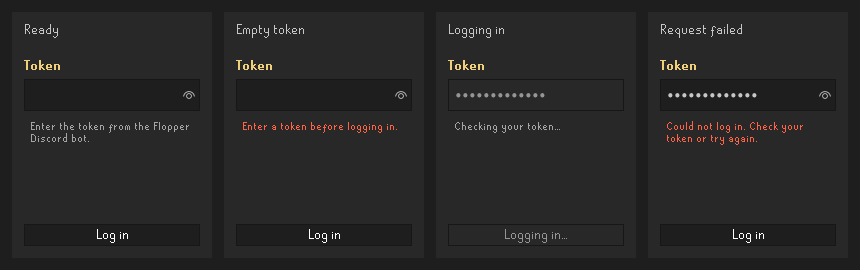
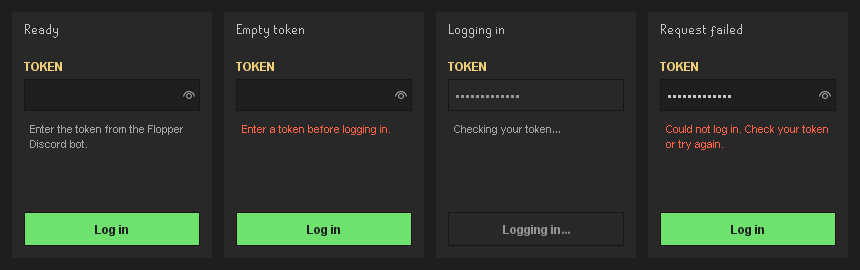
fix: restore the login panel's coloured buttons and Whitney font
Keep the keyboard-operable JButtons but give Log in its green call-to-action
fill and Sign Out its red one again, and use the panel's Whitney font in the
token form instead of the RuneScape font.

diff --git a/src/main/java/com/flippingutilities/ui/login/TokenLoginForm.java b/src/main/java/com/flippingutilities/ui/login/TokenLoginForm.java
@@ -3,6 +3,7 @@ package com.flippingutilities.ui.login;
 import com.flippingutilities.ui.uiutilities.CustomColors;
 import java.awt.BorderLayout;
 import java.awt.Dimension;
+import java.awt.Font;
 import java.util.Arrays;
 import java.util.concurrent.CompletableFuture;
 import java.util.function.BooleanSupplier;
@@ -10,7 +11,6 @@ import java.util.function.Function;
 import javax.swing.*;
 import javax.swing.border.EmptyBorder;
 import net.runelite.client.ui.ColorScheme;
-import net.runelite.client.ui.FontManager;
 
 /** Token entry and request feedback; the owner supplies consent and authentication. */
 public final class TokenLoginForm extends JPanel {
@@ -29,8 +29,8 @@ public final class TokenLoginForm extends JPanel {
         setBorder(new EmptyBorder(20, 0, 0, 0));
         setPreferredSize(new Dimension(170, 175));
 
-        JLabel label = new JLabel("Token");
-        label.setFont(FontManager.getRunescapeBoldFont());
+        JLabel label = new JLabel("TOKEN");
+        label.setFont(LoginButtons.FONT);
         label.setForeground(ColorScheme.GRAND_EXCHANGE_ALCH);
         label.setLabelFor(token);
         token.setName("loginToken");
@@ -49,12 +49,13 @@ public final class TokenLoginForm extends JPanel {
         status.setOpaque(false);
         status.setLineWrap(true);
         status.setWrapStyleWord(true);
-        status.setFont(FontManager.getRunescapeSmallFont());
+        status.setFont(new Font("Whitney", Font.PLAIN, 11));
         status.setForeground(ColorScheme.LIGHT_GRAY_COLOR);
         status.getAccessibleContext().setAccessibleName("Login status");
         status.setName("loginStatus");
         add(status, BorderLayout.CENTER);
 
+        LoginButtons.filled(login, ColorScheme.GRAND_EXCHANGE_PRICE, ColorScheme.DARKER_GRAY_COLOR);
         login.setName("loginSubmit");
         login.setToolTipText("Log in with this token");
         login.addActionListener(event -> submit());

diff --git a/src/main/java/com/flippingutilities/ui/login/LoginButtons.java b/src/main/java/com/flippingutilities/ui/login/LoginButtons.java
@@ -1,0 +1,26 @@
+package com.flippingutilities.ui.login;
+
+import java.awt.Color;
+import java.awt.Font;
+import java.awt.Insets;
+import javax.swing.ButtonModel;
+import javax.swing.JButton;
+
+/** Keeps the login panel's coloured call-to-action look on real, keyboard-operable buttons. */
+final class LoginButtons {
+    static final Font FONT = new Font("Whitney", Font.BOLD, 12);
+
+    private LoginButtons() {
+    }
+
+    static JButton filled(JButton button, Color background, Color foreground) {
+        button.setFont(FONT);
+        button.setBackground(background);
+        button.setForeground(foreground);
+        button.setMargin(new Insets(8, 18, 8, 18));
+        ButtonModel model = button.getModel();
+        model.addChangeListener(event ->
+            button.setBackground(model.isRollover() && model.isEnabled() ? background.brighter() : background));
+        return button;
+    }
+}

diff --git a/src/main/java/com/flippingutilities/ui/login/LoggedInPanel.java b/src/main/java/com/flippingutilities/ui/login/LoggedInPanel.java
@@ -4,6 +4,7 @@ import com.flippingutilities.controller.FlippingPlugin;
 import com.flippingutilities.ui.uiutilities.CustomColors;
 import com.flippingutilities.ui.uiutilities.UIUtilities;
 import java.awt.BorderLayout;
+import java.awt.Color;
 import java.awt.Component;
 import java.awt.Font;
 import javax.swing.Box;
@@ -96,7 +97,7 @@ public class LoggedInPanel extends JPanel {
 
     private JPanel createSignOutButton() {
         JPanel signoutButtonWrapper = new JPanel();
-        JButton signOutButton = new JButton("Sign out");
+        JButton signOutButton = LoginButtons.filled(new JButton("Sign Out"), CustomColors.TOMATO, Color.WHITE);
         signOutButton.setToolTipText("Sign out of Flipping Utilities");
         signOutButton.addActionListener(event -> {
             int result = JOptionPane.showOptionDialog(
